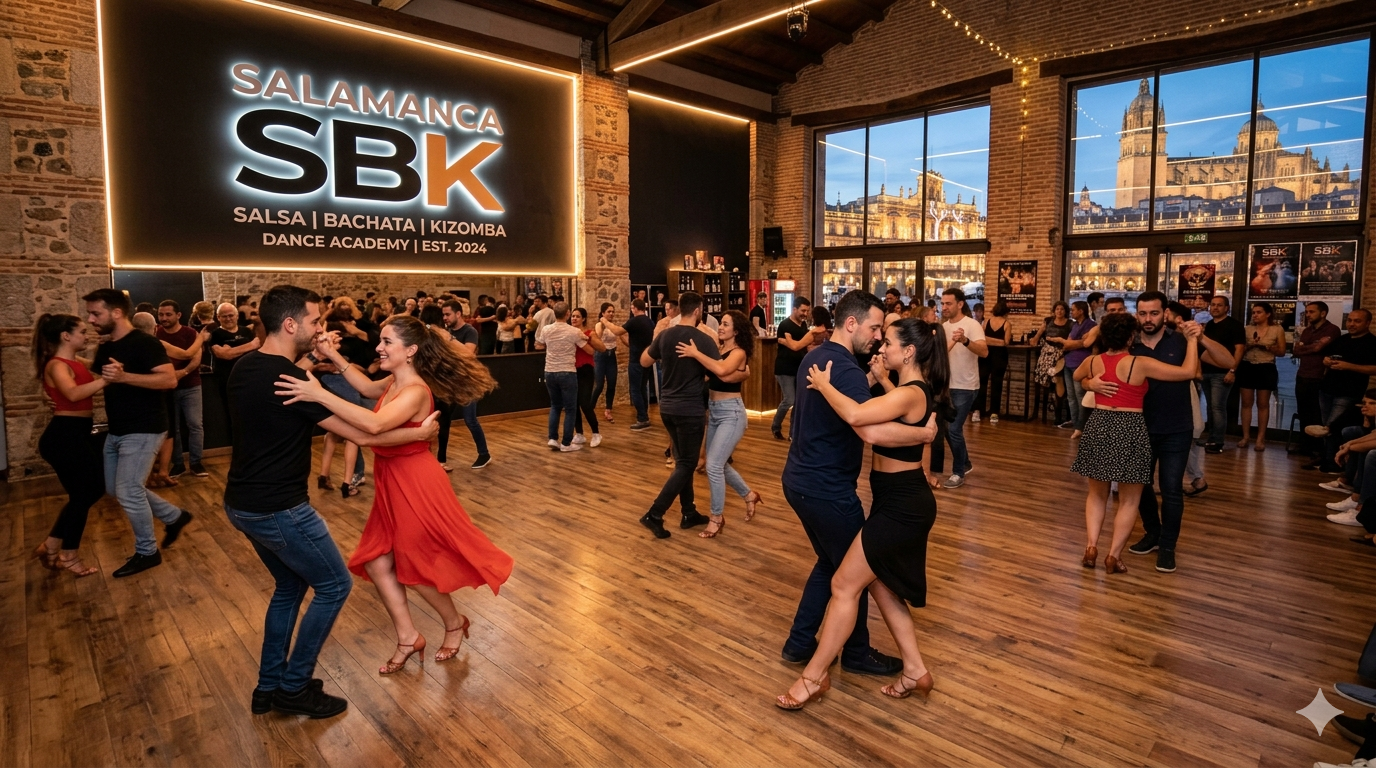
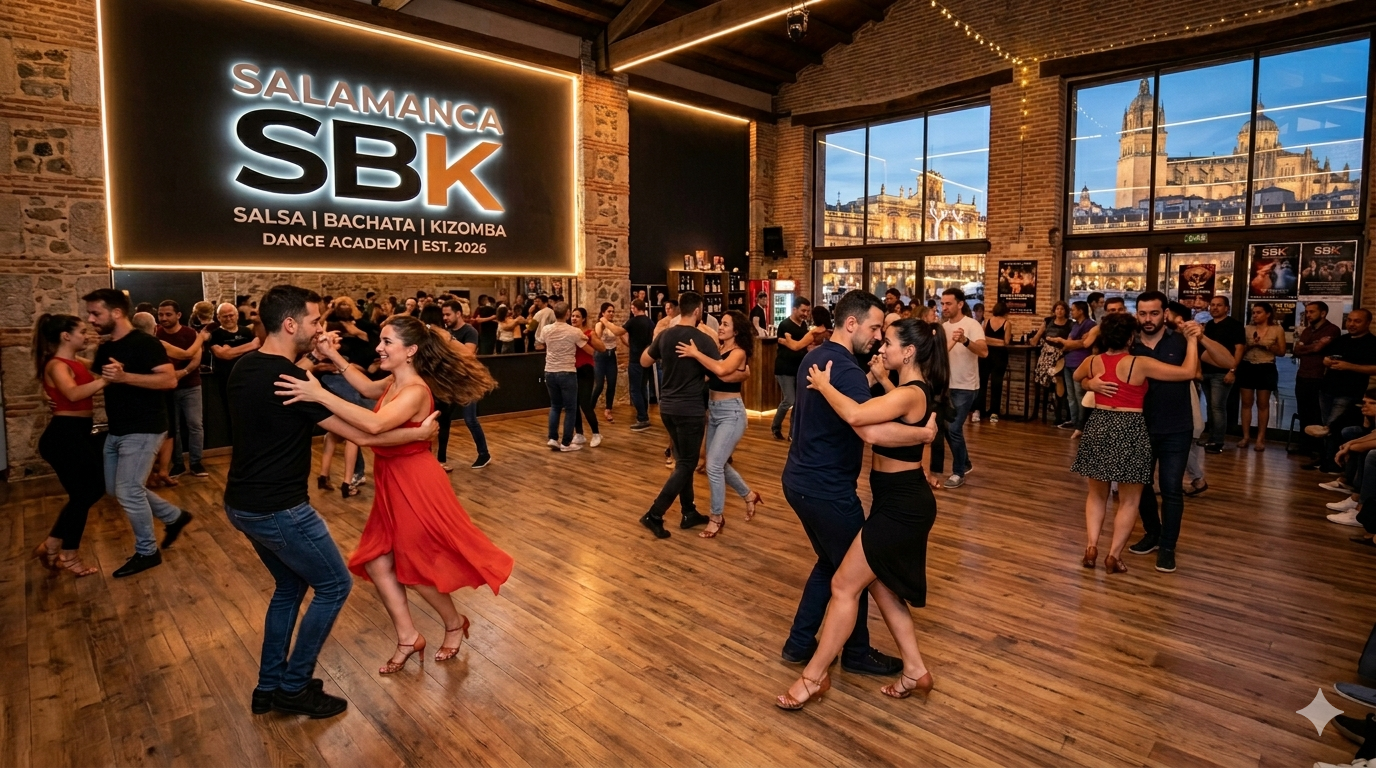
Replace schedule poster and polish Forró copy

diff --git a/index.html b/index.html
@@ -6,11 +6,11 @@
   <title>Salamanca SBK | Salsa, Bachata & Kizomba in Salamanca</title>
   <meta
     name="description"
-    content="Salamanca SBK brings together Salsa, Bachata, and Kizomba in Salamanca with classes, socials, and weekly highlights, plus dedicated weekly sessions in Tango, Zouk, and Forro."
+    content="Salamanca SBK brings together Salsa, Bachata, and Kizomba in Salamanca with classes, socials, and weekly highlights, plus dedicated weekly sessions in Tango, Zouk, and Forró."
   />
   <link rel="canonical" href="https://salamancasbk.es/" />
   <meta property="og:title" content="Salamanca SBK | Salsa, Bachata & Kizomba in Salamanca" />
-  <meta property="og:description" content="Salamanca SBK brings together Salsa, Bachata, and Kizomba in Salamanca with classes, socials, and weekly highlights, plus dedicated weekly sessions in Tango, Zouk, and Forro." />
+  <meta property="og:description" content="Salamanca SBK brings together Salsa, Bachata, and Kizomba in Salamanca with classes, socials, and weekly highlights, plus dedicated weekly sessions in Tango, Zouk, and Forró." />
   <meta property="og:type" content="website" />
   <meta property="og:url" content="https://salamancasbk.es/" />
   <link rel="stylesheet" href="styles.css" />
@@ -129,10 +129,10 @@
 
         <article class="subsection-card">
           <span class="class-tag">Expanded Styles Program</span>
-          <h3>Tango, Zouk, and Forro</h3>
+          <h3>Tango, Zouk, and Forró</h3>
           <p>
-            Next to our Salsa, Bachata, and Kizomba classes, we also offer fun Tango, Zouk, and Forro sessions every week,
-            with featured workshops and social nights for dancers who love exploring more styles.
+            Alongside our Salsa, Bachata, and Kizomba classes, you will also find fun Tango, Zouk, and Forró sessions every week,
+            plus workshops and social nights for dancers who love exploring more styles and musical worlds.
           </p>
         </article>
 
@@ -183,7 +183,7 @@
         <div class="section-heading">
           <p class="eyebrow">WEEKLY SCHEDULE</p>
           <h2>This Week at Salamanca SBK</h2>
-          <p>A quick preview of weekly classes and featured nights, including dedicated weekly sessions for Tango, Zouk, and Forro.</p>
+          <p>A quick preview of weekly classes and featured nights, including dedicated weekly sessions for Tango, Zouk, and Forró.</p>
         </div>
 
         <figure class="schedule-poster">
@@ -228,9 +228,9 @@
           </details>
 
           <details class="schedule-item">
-            <summary><span>Friday</span><small>Social + Forro</small></summary>
+            <summary><span>Friday</span><small>Social + Forró</small></summary>
             <div class="schedule-body">
-              <p>Forro Dedicated Session — 19:30</p>
+              <p>Forró Dedicated Session — 19:30</p>
               <p>SBK Social Practice — 21:00</p>
             </div>
           </details>
@@ -345,7 +345,7 @@
 
   <footer class="site-footer">
     <div class="container">
-      <p>Salamanca SBK — Salsa, Bachata, and Kizomba in Salamanca, with dedicated weekly sessions in Tango, Zouk, and Forro.</p>
+      <p>Salamanca SBK — Salsa, Bachata, and Kizomba in Salamanca, with dedicated weekly sessions in Tango, Zouk, and Forró.</p>
     </div>
   </footer>
 